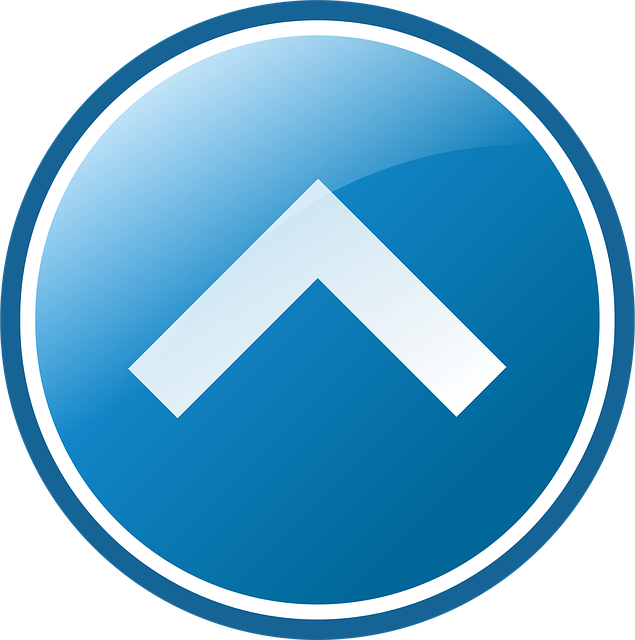
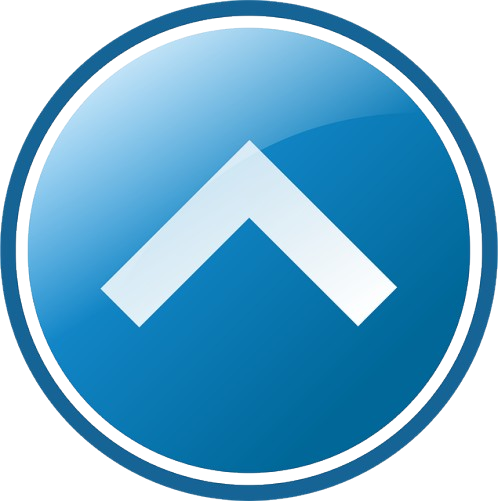
back to top button

Changed region(s): [[0.994, 0.4192, 1.0, 0.479], [0.994, 0.5389, 1.0, 0.5689], [0.9337, 0.5689, 0.9639, 0.5988]]

diff --git a/script.js b/script.js
@@ -31,6 +31,7 @@ async function fetchPokemonList() {
         for (let i = 0; i < data.results.length; i++) {
             await fetchPokemonDetails(data.results[i].url);
         }
+        renderBackToTopCard();
     } catch (error) {
         console.error("Loading Error:", error);
     } finally {
@@ -114,6 +115,15 @@ function changePokemon(index, direction) {
     if (newIndex >= 0 && newIndex < allPokemons.length) {
         openPokemonModal(newIndex);
     }
+}
+
+function renderBackToTopCard() {
+    let container = document.getElementById("pokemon-container");
+    let existingCard = document.querySelector('.back-to-top-card');
+    if (existingCard) {
+        existingCard.remove();
+    }
+    container.innerHTML += getBackToTopCardTemplate();
 }
 
 

diff --git a/script/template.js b/script/template.js
@@ -60,3 +60,18 @@ function getPokemonDialogTemplate(pokemon, index) {
       
       `;
 }
+
+function getBackToTopCardTemplate() {
+    return `
+    <button class="back-to-top-card" onclick="scrollToTop()" role="button" aria-label="Back to top">
+        <img src="img/arrow-up.png" alt="top">
+    </button>
+    `;
+}
+
+function scrollToTop() {
+    window.scrollTo({
+        top: 0,
+        behavior: 'smooth'
+    });
+}

diff --git a/style.css b/style.css
@@ -113,6 +113,16 @@ body {
     margin: 0;
     padding: 15px;   
 }
+.back-to-top-card {
+    background-color: blanchedalmond;
+    
+}
+
+.back-to-top-card img{
+    width: 28px;
+    height: auto;
+    outline: none;
+}
 
 
 #search-bar {
